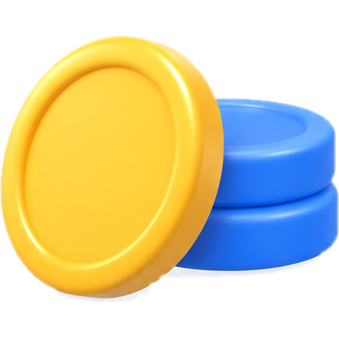
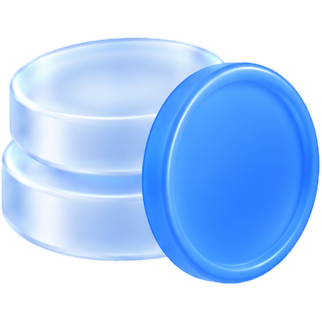
Match app screens to the live service and switch 3D art to glass
Screens are built at 390px with oneclicktax.kr's own tokens and copy,
then zoomed into the phone, so text sizes keep the app's hierarchy.
3D objects and audience icons are regenerated as frosted-glass renders,
and the floating cards use a glass treatment over soft blue blobs.

Claude-Session: https://claude.ai/code/session_01XeTdt5mgBf16amy12iLBWn

diff --git a/images/_source/frames.html b/images/_source/frames.html
@@ -1,157 +1,199 @@
 <!doctype html><html lang="ko"><head><meta charset="utf-8">
 <link rel="stylesheet" href="../../fonts/pretendard/pretendardvariable-dynamic-subset.css">
 <style>
-/* 토스·당근 톤: 단색 배경, 반듯한 밝은 폰 하나(아래 크롭), 강조 요소 하나, 회색 단계 타이포 */
-:root{--g900:#191F28;--g700:#4E5968;--g500:#8B95A1;--g400:#B0B8C1;--g200:#E5E8EB;--g100:#F2F4F6;--g50:#F9FAFB;--blue:#237EF0;--bwash:#E8F3FF;--bg:#EDF4FF;--green:#03B26C;--gwash:#E5F8EF;--kakao:#FEE500}
+/* 앱 화면은 실제 원클릭 원천세(oneclicktax.kr) 디자인 토큰으로 390px 기준으로 그린 뒤 zoom으로 폰에 맞춰 줄입니다.
+   그래서 글자 크기 비율이 실제 앱과 같습니다. 바깥 그래픽은 연파랑 단색 + 글래스모피즘 카드. */
+:root{--g900:#1F1F23;--g800:#3C3C42;--g700:#5A5A61;--g600:#78787F;--g500:#98989F;--g400:#B4B4BB;--g300:#CDCDD2;--g200:#E2E2E5;--g100:#F2F2F3;--g50:#F8F8F8;
+--blue:#237EF0;--b100:#D1E5FF;--b50:#EBF4FF;--green:#00B235;--kakao:#FFD11B;--klabel:#493D0F}
 *{box-sizing:border-box;margin:0;padding:0}
-body{font-family:"Pretendard Variable",Pretendard,sans-serif;color:var(--g900);background:#999;letter-spacing:-.02em;-webkit-font-smoothing:antialiased;display:flex;flex-wrap:wrap;align-items:flex-start}
-.f{position:relative;overflow:hidden;margin:20px;flex-shrink:0;background:var(--bg)}
+body{font-family:"Pretendard Variable",Pretendard,sans-serif;color:var(--g900);background:#999;-webkit-font-smoothing:antialiased;display:flex;flex-wrap:wrap;align-items:flex-start}
+.f{position:relative;overflow:hidden;margin:20px;flex-shrink:0;background:var(--b50)}
+.blob{position:absolute;border-radius:50%;filter:blur(40px)}
 .num{font-variant-numeric:tabular-nums}
-/* light phone */
-.ph{position:absolute;background:#fff;padding:7px;box-shadow:0 0 0 1px rgba(0,23,51,.07),0 40px 80px -30px rgba(0,40,100,.22),0 12px 24px -12px rgba(0,40,100,.10)}
-.ph>.scr{position:relative;height:100%;background:#fff;overflow:hidden;box-shadow:inset 0 0 0 1px var(--g100)}
-.isl{position:absolute;top:9px;left:50%;transform:translateX(-50%);width:64px;height:19px;background:var(--g900);border-radius:12px}
-.sb{height:38px;display:flex;align-items:center;justify-content:space-between;padding:3px 20px 0 26px;font-size:11.5px;font-weight:700}
-.pad{padding:0 20px}
-.t{font-weight:700;letter-spacing:-.04em;line-height:1.36}
-.c5{color:var(--g500)}.c7{color:var(--g700)}.cb{color:var(--blue)}
+/* phone */
+.ph{position:absolute;background:#fff;box-shadow:0 0 0 1px rgba(20,40,80,.07),0 40px 80px -30px rgba(20,60,130,.25),0 12px 24px -12px rgba(20,60,130,.10)}
+.scr{position:relative;height:100%;overflow:hidden;background:#fff;box-shadow:inset 0 0 0 1px var(--g100)}
+/* ===== app (390 base) ===== */
+.app{width:390px;letter-spacing:-.01em}
+.st{height:54px;display:flex;align-items:center;justify-content:space-between;padding:6px 30px 0 40px;font-size:16px;font-weight:600;position:relative}
+.st .di{position:absolute;left:50%;top:11px;transform:translateX(-50%);width:122px;height:36px;border-radius:20px;background:#000}
+.nb{height:52px;display:flex;align-items:center;justify-content:space-between;padding:0 16px}
+.bd{padding:0 20px}
+.h21{font-size:21px;font-weight:700;line-height:1.45}
+.p15{font-size:15px;color:var(--g600);line-height:1.5}
+.lb{font-size:13px;color:var(--g600);font-weight:500}
 .row{display:flex;justify-content:space-between;align-items:center}
-.btn{height:46px;border-radius:14px;background:var(--blue);color:#fff;font-weight:700;font-size:14px;display:flex;align-items:center;justify-content:center;gap:6px}
-.av{border-radius:50%;display:grid;place-items:center;font-weight:700;flex-shrink:0}
-.pop{position:absolute;background:#fff;border-radius:22px;box-shadow:0 0 0 1px rgba(0,23,51,.05),0 28px 56px -20px rgba(0,40,100,.28),0 8px 16px -8px rgba(0,40,100,.10)}
-.chip{display:inline-flex;align-items:center;gap:4px;font-weight:700;border-radius:8px;padding:4px 8px;font-size:11px}
-.obj{position:absolute;filter:drop-shadow(0 18px 18px rgba(0,40,100,.16))}
+.btn{height:56px;border-radius:12px;background:var(--blue);color:#fff;font-size:17px;font-weight:700;display:flex;align-items:center;justify-content:center;gap:8px}
+.chip{display:inline-flex;align-items:center;gap:4px;font-size:13px;font-weight:700;color:var(--blue);background:var(--b100);border-radius:8px;padding:5px 9px}
+.card{border-radius:14px;background:var(--g50);padding:18px 20px}
+.seg{display:flex;background:var(--g100);border-radius:12px;padding:4px}
+.seg div{flex:1;height:42px;border-radius:9px;display:grid;place-items:center;font-size:15px;font-weight:600;color:var(--g600)}
+.seg .on{background:#fff;color:var(--g900);font-weight:700;box-shadow:0 1px 3px rgba(0,0,0,.08)}
+.fld{border:1px solid var(--g200);border-radius:12px;height:54px;display:flex;align-items:center;padding:0 16px;font-size:17px;font-weight:600}
+.fld.on{border:1.5px solid var(--blue)}
+.ck{width:22px;height:22px;border-radius:6px;background:var(--blue);display:grid;place-items:center;color:#fff;flex-shrink:0}
+/* ===== glass ===== */
+.glass{position:absolute;background:rgba(255,255,255,.58);-webkit-backdrop-filter:blur(18px) saturate(170%);backdrop-filter:blur(18px) saturate(170%);
+ border:1px solid rgba(255,255,255,.85);box-shadow:0 24px 48px -20px rgba(20,60,130,.28),0 2px 6px rgba(20,60,130,.05),inset 0 1px 0 rgba(255,255,255,.95)}
+.obj{position:absolute;filter:drop-shadow(0 16px 20px rgba(20,60,130,.14))}
 </style></head><body>
 <svg width="0" height="0" style="position:absolute"><defs>
- <symbol id="stat" viewBox="0 0 64 12"><g fill="#191F28"><rect x="0" y="7" width="3" height="4" rx="1"/><rect x="4.5" y="5" width="3" height="6" rx="1"/><rect x="9" y="2.5" width="3" height="8.5" rx="1"/><rect x="13.5" y="0" width="3" height="11" rx="1"/>
+ <symbol id="stat" viewBox="0 0 64 12"><g fill="#1F1F23"><rect x="0" y="7" width="3" height="4" rx="1"/><rect x="4.5" y="5" width="3" height="6" rx="1"/><rect x="9" y="2.5" width="3" height="8.5" rx="1"/><rect x="13.5" y="0" width="3" height="11" rx="1"/>
  <path d="M27 3.2a9 9 0 0 1 12 0l-1.4 1.5a7 7 0 0 0-9.2 0zM29.2 5.6a5.6 5.6 0 0 1 7.6 0l-1.4 1.5a3.6 3.6 0 0 0-4.8 0zM33 11l-2-2.1a2.8 2.8 0 0 1 4 0z"/>
- <rect x="44.5" y="1" width="16" height="9.5" rx="2.6" fill="none" stroke="#191F28" stroke-opacity=".4" stroke-width="1"/><rect x="46" y="2.5" width="13" height="6.5" rx="1.4"/></g></symbol>
+ <rect x="44.5" y="1" width="16" height="9.5" rx="2.6" fill="none" stroke="#1F1F23" stroke-opacity=".4" stroke-width="1"/><rect x="46" y="2.5" width="13" height="6.5" rx="1.4"/></g></symbol>
  <symbol id="chk" viewBox="0 0 14 14"><path d="M3 7.3l2.6 2.6L11 4.4" fill="none" stroke="currentColor" stroke-width="2.2" stroke-linecap="round" stroke-linejoin="round"/></symbol>
- <symbol id="back" viewBox="0 0 16 16"><path d="M10 3L5 8l5 5" fill="none" stroke="#191F28" stroke-width="1.9" stroke-linecap="round" stroke-linejoin="round"/></symbol>
- <symbol id="kakao" viewBox="0 0 20 18"><path d="M10 1C4.8 1 1 4.2 1 8.1c0 2.5 1.6 4.7 4.1 5.9l-1 3.7 4.2-2.8c.6.1 1.1.1 1.7.1 5.2 0 9-3.2 9-7.1S15.2 1 10 1z" fill="#191919"/></symbol>
- <symbol id="arr" viewBox="0 0 16 16"><path d="M6 3l5 5-5 5" fill="none" stroke="#B0B8C1" stroke-width="1.8" stroke-linecap="round" stroke-linejoin="round"/></symbol>
+ <symbol id="back" viewBox="0 0 24 24"><path d="M15 4l-8 8 8 8" fill="none" stroke="#1F1F23" stroke-width="1.8" stroke-linecap="round" stroke-linejoin="round"/></symbol>
+ <symbol id="x" viewBox="0 0 24 24"><path d="M5 5l14 14M19 5L5 19" fill="none" stroke="#1F1F23" stroke-width="1.8" stroke-linecap="round"/></symbol>
+ <symbol id="arr" viewBox="0 0 24 24"><path d="M9 5l7 7-7 7" fill="none" stroke="#B4B4BB" stroke-width="2" stroke-linecap="round" stroke-linejoin="round"/></symbol>
+ <symbol id="kakao" viewBox="0 0 20 18"><path d="M10 1C4.8 1 1 4.2 1 8.1c0 2.5 1.6 4.7 4.1 5.9l-1 3.7 4.2-2.8c.6.1 1.1.1 1.7.1 5.2 0 9-3.2 9-7.1S15.2 1 10 1z" fill="#1F1F23"/></symbol>
 </defs></svg>
 
 <!-- ================= HERO 520x560 ================= -->
 <div class="f" id="hero" style="width:520px;height:560px">
-  <div class="ph" style="left:196px;top:56px;width:282px;height:560px;border-radius:46px"><div class="scr" style="border-radius:39px">
-    <div class="isl"></div><div class="sb"><span>9:41</span><svg width="56" height="11"><use href="#stat"/></svg></div>
-    <div class="pad" style="text-align:center;padding-top:30px">
-      <img src="3d/doc-check.png" style="width:96px;height:96px;filter:drop-shadow(0 12px 14px rgba(0,40,100,.12))">
-      <div class="t" style="font-size:22px;margin-top:18px">10월 원천세 신고를<br>마쳤어요</div>
-      <div class="c5" style="font-size:13px;margin-top:8px">홈택스에 정상적으로 접수됐어요</div>
+  <div class="blob" style="width:260px;height:260px;background:#9CC9FF;opacity:.55;left:-60px;top:250px"></div>
+  <div class="blob" style="width:220px;height:220px;background:#237EF0;opacity:.22;right:-40px;top:-40px"></div>
+  <div class="ph" style="left:200px;top:56px;width:280px;height:560px;border-radius:46px;padding:7px"><div class="scr" style="border-radius:39px"><div class="app" style="zoom:.682">
+    <div class="st"><span>9:41</span><i class="di"></i><svg width="66" height="13"><use href="#stat"/></svg></div>
+    <div class="nb"><span></span><svg width="24" height="24"><use href="#x"/></svg></div>
+    <div class="bd" style="text-align:center;padding-top:28px">
+      <img src="3d/doc-check.png" style="width:132px;height:132px">
+      <div class="h21" style="margin-top:20px">10월 원천세 신고가<br>접수됐어요</div>
+      <div class="p15" style="margin-top:8px">처리 상태는 홈에서 확인할 수 있어요</div>
     </div>
-    <div class="pad" style="margin-top:28px">
-      <div style="border-top:1px solid var(--g100);padding-top:6px;font-size:13px" class="num">
-        <div class="row" style="padding:9px 0"><span class="c5">납부할 세금</span><b class="cb">159,500원</b></div>
-        <div class="row" style="padding:9px 0"><span class="c5">납부 기한</span><b>11월 10일</b></div>
-        <div class="row" style="padding:9px 0"><span class="c5">간이지급명세서</span><b>함께 제출됨</b></div>
+    <div class="bd" style="margin-top:32px">
+      <div class="card num" style="font-size:15px">
+        <div class="row"><span class="lb" style="font-size:15px">총 납부세액</span><b style="font-size:19px;color:var(--blue)">159,500원</b></div>
+        <div style="height:1px;background:var(--g200);margin:16px 0"></div>
+        <div class="row" style="margin-bottom:12px"><span style="color:var(--g600)">소득세</span><span style="font-weight:600">145,000원</span></div>
+        <div class="row" style="margin-bottom:12px"><span style="color:var(--g600)">지방소득세</span><span style="font-weight:600">14,500원</span></div>
+        <div class="row"><span style="color:var(--g600)">소득자</span><span style="font-weight:600">3명</span></div>
       </div>
-      <div class="btn" style="margin-top:20px">납부서 받기</div>
+      <div style="display:flex;align-items:center;gap:8px;margin-top:16px;font-size:14px;color:var(--g700)"><svg width="16" height="16" style="color:var(--green)"><use href="#chk"/></svg>간이 지급 명세서도 함께 제출했어요</div>
+      <div class="btn" style="margin-top:28px">홈으로 가기</div>
     </div>
-  </div></div>
-  <!-- notification -->
-  <div class="pop" style="left:22px;top:150px;width:240px;padding:15px 16px;border-radius:20px;display:flex;gap:11px;align-items:flex-start">
-    <div style="width:38px;height:38px;border-radius:11px;background:var(--blue);display:grid;place-items:center;color:#fff;flex-shrink:0"><svg width="18" height="18"><use href="#chk"/></svg></div>
+  </div></div></div>
+  <!-- glass notification -->
+  <div class="glass" style="left:26px;top:178px;width:236px;padding:13px 14px;border-radius:20px;display:flex;gap:10px;align-items:center">
+    <div style="width:34px;height:34px;border-radius:10px;background:var(--blue);display:grid;place-items:center;color:#fff;flex-shrink:0"><svg width="16" height="16"><use href="#chk"/></svg></div>
     <div style="flex:1;min-width:0">
-      <div class="row" style="font-size:11px"><span class="c5" style="font-weight:600">원클릭 원천세</span><span class="c5">지금</span></div>
-      <div style="font-size:13.5px;font-weight:700;margin-top:3px;letter-spacing:-.03em">홈택스 신고가 접수됐어요</div>
-      <div class="c7" style="font-size:12px;margin-top:2px">3명 · 지급액 4,000,000원</div>
+      <div class="row" style="font-size:10.5px;color:var(--g600)"><span style="font-weight:600">원클릭 원천세</span><span>지금</span></div>
+      <div style="font-size:12.5px;font-weight:700;margin-top:2px;letter-spacing:-.02em">홈택스 신고가 접수됐어요</div>
+      <div style="font-size:11px;color:var(--g700);margin-top:1px" class="num">총 납부세액 159,500원</div>
     </div>
   </div>
 </div>
 
 <!-- ================= STEPS 210x330 ================= -->
 <div class="f" id="step-1" style="width:210px;height:330px">
-  <div class="ph" style="left:22px;top:30px;width:166px;height:340px;border-radius:32px;padding:5px"><div class="scr" style="border-radius:27px">
-    <div class="isl" style="width:36px;height:12px;top:8px"></div><div class="sb" style="height:30px;padding:2px 13px 0 18px;font-size:9.5px"><span>9:41</span><svg width="36" height="7"><use href="#stat"/></svg></div>
-    <div style="padding:22px 14px 0;text-align:center">
-      <img src="3d/coin.png" style="width:58px;height:58px">
-      <div class="t" style="font-size:15px;margin-top:12px">원천세 신고,<br>3분이면 끝나요</div>
-      <div class="c5" style="font-size:9.5px;margin-top:6px">앱 설치 없이 무료로 시작해요</div>
-      <div class="btn" style="margin-top:26px;height:38px;border-radius:11px;font-size:11px;background:var(--kakao);color:#191919"><svg width="13" height="12"><use href="#kakao"/></svg>카카오로 시작하기</div>
+  <div class="blob" style="width:160px;height:160px;background:#9CC9FF;opacity:.5;left:-50px;top:200px"></div>
+  <div class="ph" style="left:17px;top:28px;width:176px;height:360px;border-radius:32px;padding:5px"><div class="scr" style="border-radius:27px"><div class="app" style="zoom:.426">
+    <div class="st"><span>9:41</span><i class="di"></i><svg width="66" height="13"><use href="#stat"/></svg></div>
+    <div class="nb"><svg width="24" height="24"><use href="#back"/></svg><svg width="24" height="24"><use href="#x"/></svg></div>
+    <div class="bd" style="text-align:center;padding-top:20px">
+      <img src="3d/coin.png" style="width:150px;height:150px">
+      <div class="h21" style="color:var(--blue);margin-top:18px">원클릭 원천세</div>
+      <div class="h21" style="margin-top:10px">원천세 직접 신고, 원클릭으로</div>
+      <div class="p15" style="margin-top:8px">처음이어도 쉽게 시작할 수 있어요</div>
+      <div style="margin-top:44px"><span class="chip" style="padding:8px 14px">지금 시작해 볼까요?</span></div>
+      <div class="btn" style="margin-top:12px;background:var(--kakao);color:var(--g900)"><svg width="22" height="20"><use href="#kakao"/></svg>카카오 로그인</div>
     </div>
-  </div></div>
+  </div></div></div>
 </div>
 
 <div class="f" id="step-2" style="width:210px;height:330px">
-  <div class="ph" style="left:22px;top:30px;width:166px;height:340px;border-radius:32px;padding:5px"><div class="scr" style="border-radius:27px">
-    <div class="isl" style="width:36px;height:12px;top:8px"></div><div class="sb" style="height:30px;padding:2px 13px 0 18px;font-size:9.5px"><span>9:41</span><svg width="36" height="7"><use href="#stat"/></svg></div>
-    <div style="padding:14px 14px 0">
-      <div class="t" style="font-size:15px">누구에게 얼마를<br>지급했나요?</div>
-      <div style="margin-top:18px"><div class="c5" style="font-size:9px;font-weight:600">받는 사람</div><div style="font-size:12.5px;font-weight:700;padding:5px 0 7px;border-bottom:1px solid var(--g200)">김민지</div></div>
-      <div style="margin-top:12px"><div class="c5" style="font-size:9px;font-weight:600">소득 종류</div><div class="row" style="font-size:12.5px;font-weight:700;padding:5px 0 7px;border-bottom:1px solid var(--g200)">사업소득 3.3%<svg width="10" height="10" style="transform:rotate(90deg)"><use href="#arr"/></svg></div></div>
-      <div style="margin-top:12px"><div class="cb" style="font-size:9px;font-weight:700">지급액</div><div class="row num" style="font-size:17px;font-weight:700;padding:3px 0 6px;border-bottom:2px solid var(--blue)"><span>1,500,000<span style="display:inline-block;width:1.5px;height:16px;background:var(--blue);margin-left:2px;vertical-align:-2px"></span></span><span style="font-size:12.5px">원</span></div></div>
-      <div class="row num" style="margin-top:7px;font-size:9.5px"><span class="c5">떼어둘 세금</span><b class="cb">49,500원</b></div>
+  <div class="blob" style="width:160px;height:160px;background:#9CC9FF;opacity:.5;left:-50px;top:200px"></div>
+  <div class="ph" style="left:17px;top:28px;width:176px;height:360px;border-radius:32px;padding:5px"><div class="scr" style="border-radius:27px"><div class="app" style="zoom:.426">
+    <div class="st"><span>9:41</span><i class="di"></i><svg width="66" height="13"><use href="#stat"/></svg></div>
+    <div class="nb"><svg width="24" height="24"><use href="#back"/></svg><span></span></div>
+    <div class="bd" style="padding-top:8px">
+      <div class="h21">소득자를 한 분씩<br>추가해 주세요</div>
+      <div class="lb" style="margin-top:28px;margin-bottom:8px">어떤 소득자 인가요?</div>
+      <div class="seg"><div class="on">사업 소득</div><div>기타 소득</div></div>
+      <div class="lb" style="margin-top:24px;margin-bottom:8px">이름</div>
+      <div class="fld">김민지</div>
+      <div class="row" style="margin-top:24px;margin-bottom:8px"><span class="lb" style="color:var(--blue);font-weight:700">지급액</span><span style="font-size:13px;color:var(--g600)"><b style="color:var(--g900)">세전 금액</b> · 세후 금액</span></div>
+      <div class="fld on num" style="justify-content:space-between">1,500,000<span style="font-weight:500;color:var(--g600)">원</span></div>
+      <div class="row num" style="margin-top:10px;font-size:13px"><span style="color:var(--g600)">세후 금액</span><b>1,450,500원</b></div>
+      <div class="btn" style="margin-top:32px">저장하기</div>
     </div>
-  </div></div>
+  </div></div></div>
 </div>
 
 <div class="f" id="step-3" style="width:210px;height:330px">
-  <div class="ph" style="left:22px;top:30px;width:166px;height:340px;border-radius:32px;padding:5px"><div class="scr" style="border-radius:27px">
-    <div class="isl" style="width:36px;height:12px;top:8px"></div><div class="sb" style="height:30px;padding:2px 13px 0 18px;font-size:9.5px"><span>9:41</span><svg width="36" height="7"><use href="#stat"/></svg></div>
-    <div style="padding:14px 14px 0">
-      <div class="c5" style="font-size:10px;font-weight:600">10월에 낼 원천세</div>
-      <div class="t num" style="font-size:23px;margin-top:2px">159,500원</div>
-      <div style="margin-top:14px;font-size:10.5px" class="num">
-        <div class="row" style="padding:5px 0"><span class="c5">소득세</span><b>145,000원</b></div>
-        <div class="row" style="padding:5px 0"><span class="c5">지방소득세</span><b>14,500원</b></div>
-        <div class="row" style="padding:5px 0"><span class="c5">납부 기한</span><b>11월 10일</b></div>
+  <div class="blob" style="width:160px;height:160px;background:#9CC9FF;opacity:.5;left:-50px;top:200px"></div>
+  <div class="ph" style="left:17px;top:28px;width:176px;height:360px;border-radius:32px;padding:5px"><div class="scr" style="border-radius:27px"><div class="app" style="zoom:.426">
+    <div class="st"><span>9:41</span><i class="di"></i><svg width="66" height="13"><use href="#stat"/></svg></div>
+    <div class="nb"><svg width="24" height="24"><use href="#back"/></svg><span></span></div>
+    <div class="bd" style="padding-top:8px">
+      <span class="chip">10월 귀속 원천세</span>
+      <div class="h21" style="margin-top:12px">아래 정보가 맞는지<br>한 번 더 확인해 주세요</div>
+      <div class="card num" style="margin-top:24px;font-size:15px">
+        <div class="lb" style="font-size:14px">총 납부세액</div>
+        <div style="font-size:26px;font-weight:700;margin-top:4px">159,500원</div>
+        <div style="height:1px;background:var(--g200);margin:16px 0"></div>
+        <div class="row" style="margin-bottom:12px"><span style="color:var(--g600)">소득세</span><span style="font-weight:600">145,000원</span></div>
+        <div class="row" style="margin-bottom:12px"><span style="color:var(--g600)">지방소득세</span><span style="font-weight:600">14,500원</span></div>
+        <div class="row"><span style="color:var(--g600)">소득자</span><span style="font-weight:600">3명</span></div>
       </div>
-      <div style="margin-top:10px;background:var(--g50);border-radius:10px;padding:8px 10px;font-size:9.5px;display:flex;gap:5px;align-items:center" class="c7"><svg width="11" height="11" style="color:var(--green)"><use href="#chk"/></svg>간이지급명세서 함께 제출</div>
-      <div class="btn" style="margin-top:14px;height:38px;border-radius:11px;font-size:11.5px">홈택스에 신고하기</div>
+      <div style="display:flex;gap:10px;align-items:center;margin-top:20px;font-size:15px;font-weight:600"><span class="ck"><svg width="13" height="13"><use href="#chk"/></svg></span>간이 지급 명세서도 제출할게요</div>
+      <div class="btn" style="margin-top:28px">제출하기</div>
     </div>
-  </div></div>
+  </div></div></div>
 </div>
 
 <!-- ================= FEATURE CALC 380x460 ================= -->
 <div class="f" id="feature-calc" style="width:380px;height:460px">
-  <div class="ph" style="left:76px;top:56px;width:228px;height:480px;border-radius:40px;padding:6px"><div class="scr" style="border-radius:34px">
-    <div class="isl" style="width:56px;height:16px;top:8px"></div><div class="sb" style="height:34px;font-size:10.5px;padding:3px 18px 0 22px"><span>9:41</span><svg width="50" height="10"><use href="#stat"/></svg></div>
-    <div style="padding:10px 16px 0">
-      <div class="t" style="font-size:16px">10월 지급 내역</div>
-      <div class="num" style="margin-top:12px;font-size:11px">
-        <div class="row" style="padding:8px 0"><div style="display:flex;gap:9px;align-items:center"><div class="av" style="width:30px;height:30px;background:var(--bwash);color:var(--blue);font-size:11px">김</div><div><b>김민지</b><div class="c5" style="font-size:9.5px;margin-top:1px">사업소득</div></div></div><b>1,500,000원</b></div>
-        <div class="row" style="padding:8px 0"><div style="display:flex;gap:9px;align-items:center"><div class="av" style="width:30px;height:30px;background:var(--gwash);color:var(--green);font-size:11px">박</div><div><b>박준호</b><div class="c5" style="font-size:9.5px;margin-top:1px">사업소득</div></div></div><b>2,000,000원</b></div>
-        
+  <div class="blob" style="width:240px;height:240px;background:#9CC9FF;opacity:.55;left:-70px;top:260px"></div>
+  <div class="blob" style="width:200px;height:200px;background:#237EF0;opacity:.2;right:-50px;top:-30px"></div>
+  <div class="ph" style="left:78px;top:54px;width:224px;height:480px;border-radius:40px;padding:6px"><div class="scr" style="border-radius:34px"><div class="app" style="zoom:.544">
+    <div class="st"><span>9:41</span><i class="di"></i><svg width="66" height="13"><use href="#stat"/></svg></div>
+    <div class="nb"><svg width="24" height="24"><use href="#back"/></svg><span></span></div>
+    <div class="bd" style="padding-top:4px">
+      <span class="chip">10월 귀속 원천세</span>
+      <div class="h21" style="margin-top:12px">지급 내역을 확인해 주세요</div>
+      <div class="num" style="margin-top:20px">
+        <div class="row" style="padding:14px 0;border-bottom:1px solid var(--g100)"><div><div style="font-size:16px;font-weight:600">김민지</div><div style="font-size:13px;color:var(--g600);margin-top:3px">사업 소득 · 3.3%</div></div><div style="text-align:right"><div style="font-size:16px;font-weight:600">1,500,000원</div><div style="font-size:13px;color:var(--g600);margin-top:3px">세금 49,500원</div></div></div>
+        <div class="row" style="padding:14px 0;border-bottom:1px solid var(--g100)"><div><div style="font-size:16px;font-weight:600">박준호</div><div style="font-size:13px;color:var(--g600);margin-top:3px">사업 소득 · 3.3%</div></div><div style="text-align:right"><div style="font-size:16px;font-weight:600">2,000,000원</div><div style="font-size:13px;color:var(--g600);margin-top:3px">세금 66,000원</div></div></div>
       </div>
     </div>
-  </div></div>
-  <!-- pop-out: expanded calc of 이서연 -->
-  <div class="pop" style="left:40px;top:244px;width:300px;padding:20px 22px">
-    <div class="row"><div style="display:flex;gap:10px;align-items:center"><div class="av" style="width:36px;height:36px;background:#FFF0E0;color:#F07800;font-size:13px">이</div><div><div style="font-size:14px;font-weight:700">이서연 · 강연료</div><div class="c5" style="font-size:11px;margin-top:1px">지급액 500,000원</div></div></div><span class="chip" style="background:var(--bwash);color:var(--blue)">8.8% 자동 적용</span></div>
-    <div class="num" style="margin-top:14px;font-size:12.5px;border-top:1px solid var(--g100);padding-top:8px">
-      <div class="row" style="padding:6px 0"><span class="c5">소득세</span><b>40,000원</b></div>
-      <div class="row" style="padding:6px 0"><span class="c5">지방소득세</span><b>4,000원</b></div>
-      <div class="row" style="padding:10px 0 0"><span class="c7" style="font-weight:600">실제 입금할 금액</span><b class="cb" style="font-size:17px">456,000원</b></div>
+  </div></div></div>
+  <!-- glass pop-out -->
+  <div class="glass" style="left:44px;top:238px;width:292px;padding:18px 20px;border-radius:20px">
+    <div class="row"><div><div style="font-size:14px;font-weight:700">이서연</div><div style="font-size:11.5px;color:var(--g600);margin-top:2px" class="num">기타 소득 · 지급액 500,000원</div></div><span class="chip" style="font-size:11px;padding:4px 8px">8.8% 자동 적용</span></div>
+    <div class="num" style="margin-top:12px;font-size:12px;border-top:1px solid rgba(31,31,35,.08);padding-top:10px">
+      <div class="row" style="padding:4px 0"><span style="color:var(--g600)">소득세</span><span style="font-weight:600">40,000원</span></div>
+      <div class="row" style="padding:4px 0"><span style="color:var(--g600)">지방소득세</span><span style="font-weight:600">4,000원</span></div>
+      <div class="row" style="padding:8px 0 0"><span style="color:var(--g700);font-weight:600">세후 금액</span><b style="font-size:16px;color:var(--blue)">456,000원</b></div>
     </div>
   </div>
-  <img class="obj" src="3d/calculator.png" style="right:8px;top:120px;width:84px;transform:rotate(10deg)">
+  <img class="obj" src="3d/calculator.png" style="right:14px;top:84px;width:86px;transform:rotate(8deg)">
 </div>
 
 <!-- ================= FEATURE HOMETAX 380x460 ================= -->
 <div class="f" id="feature-hometax" style="width:380px;height:460px">
-  <div class="ph" style="left:76px;top:56px;width:228px;height:480px;border-radius:40px;padding:6px"><div class="scr" style="border-radius:34px">
-    <div class="isl" style="width:56px;height:16px;top:8px"></div><div class="sb" style="height:34px;font-size:10.5px;padding:3px 18px 0 22px"><span>9:41</span><svg width="50" height="10"><use href="#stat"/></svg></div>
-    <div style="padding:10px 16px 0">
-      <div class="t" style="font-size:16px">신고 내역</div>
-      <div class="num" style="margin-top:10px;font-size:11px">
-        <div class="row" style="padding:10px 0;border-bottom:1px solid var(--g100)"><div><b>2026년 9월분</b><div class="c5" style="font-size:9.5px;margin-top:2px">99,000원 · 접수 완료</div></div><svg width="12" height="12"><use href="#arr"/></svg></div>
-        <div class="row" style="padding:10px 0;border-bottom:1px solid var(--g100)"><div><b>2026년 8월분</b><div class="c5" style="font-size:9.5px;margin-top:2px">115,500원 · 접수 완료</div></div><svg width="12" height="12"><use href="#arr"/></svg></div>
-        
+  <div class="blob" style="width:240px;height:240px;background:#9CC9FF;opacity:.55;right:-70px;top:250px"></div>
+  <div class="blob" style="width:200px;height:200px;background:#237EF0;opacity:.2;left:-50px;top:-30px"></div>
+  <div class="ph" style="left:78px;top:54px;width:224px;height:480px;border-radius:40px;padding:6px"><div class="scr" style="border-radius:34px"><div class="app" style="zoom:.544">
+    <div class="st"><span>9:41</span><i class="di"></i><svg width="66" height="13"><use href="#stat"/></svg></div>
+    <div class="nb"><svg width="24" height="24"><use href="#back"/></svg><span></span></div>
+    <div class="bd" style="padding-top:4px">
+      <div class="h21">신고 내역</div>
+      <div class="num" style="margin-top:16px">
+        <div class="row" style="padding:16px 0;border-bottom:1px solid var(--g100)"><div><div style="font-size:16px;font-weight:600">9월 귀속 원천세</div><div style="font-size:13px;color:var(--g600);margin-top:3px">총 납부세액 99,000원</div></div><div style="display:flex;align-items:center;gap:4px;font-size:13px;color:var(--green);font-weight:600">신고 완료<svg width="18" height="18"><use href="#arr"/></svg></div></div>
+        <div class="row" style="padding:16px 0;border-bottom:1px solid var(--g100)"><div><div style="font-size:16px;font-weight:600">8월 귀속 원천세</div><div style="font-size:13px;color:var(--g600);margin-top:3px">총 납부세액 115,500원</div></div><div style="display:flex;align-items:center;gap:4px;font-size:13px;color:var(--green);font-weight:600">신고 완료<svg width="18" height="18"><use href="#arr"/></svg></div></div>
       </div>
     </div>
-  </div></div>
-  <!-- pop-out: this month's filing -->
-  <div class="pop" style="left:40px;top:236px;width:300px;padding:20px 22px">
-    <div class="row"><div style="font-size:14px;font-weight:700">2026년 10월분</div><span class="chip" style="background:var(--gwash);color:var(--green)"><svg width="10" height="10"><use href="#chk"/></svg>홈택스 접수 완료</span></div>
-    <div class="num" style="margin-top:12px;font-size:12px;border-top:1px solid var(--g100);padding-top:6px">
-      <div class="row" style="padding:6px 0"><span class="c5">원천징수이행상황신고서</span><b>제출</b></div>
-      <div class="row" style="padding:6px 0"><span class="c5">간이지급명세서</span><b>제출</b></div>
-      <div class="row" style="padding:6px 0"><span class="c5">납부할 세금</span><b class="cb">159,500원</b></div>
+  </div></div></div>
+  <!-- glass pop-out -->
+  <div class="glass" style="left:44px;top:222px;width:292px;padding:18px 20px;border-radius:20px">
+    <div class="row"><div style="font-size:14px;font-weight:700">10월 귀속 원천세</div><span class="chip" style="font-size:11px;padding:4px 8px;background:#DDF5E4;color:#00962C"><svg width="10" height="10"><use href="#chk"/></svg>신고 완료</span></div>
+    <div style="font-size:11.5px;color:var(--g600);margin-top:2px" class="num">총 납부세액 159,500원 · 소득자 3명</div>
+    <div style="margin-top:12px;font-size:12px;border-top:1px solid rgba(31,31,35,.08);padding-top:6px">
+      <div class="row" style="padding:6px 0"><span style="font-weight:600">원천징수이행상황신고서</span><span style="color:var(--g600);font-size:11px">접수증 · 납부서</span></div>
+      <div class="row" style="padding:6px 0"><span style="font-weight:600">지방소득세 신고서</span><span style="color:var(--g600);font-size:11px">접수증 · 납부서</span></div>
+      <div class="row" style="padding:6px 0"><span style="font-weight:600">간이 지급 명세서</span><span style="color:var(--g600);font-size:11px">접수증</span></div>
     </div>
-    <div style="display:flex;gap:8px;margin-top:12px"><div class="btn" style="flex:1;height:38px;font-size:12px;border-radius:11px;background:var(--g100);color:var(--g700)">접수증</div><div class="btn" style="flex:1;height:38px;font-size:12px;border-radius:11px">납부서</div></div>
   </div>
-  <img class="obj" src="3d/plane.png" style="left:22px;top:30px;width:92px">
+  <img class="obj" src="3d/plane.png" style="left:18px;top:34px;width:92px">
 </div>
 </body></html>
